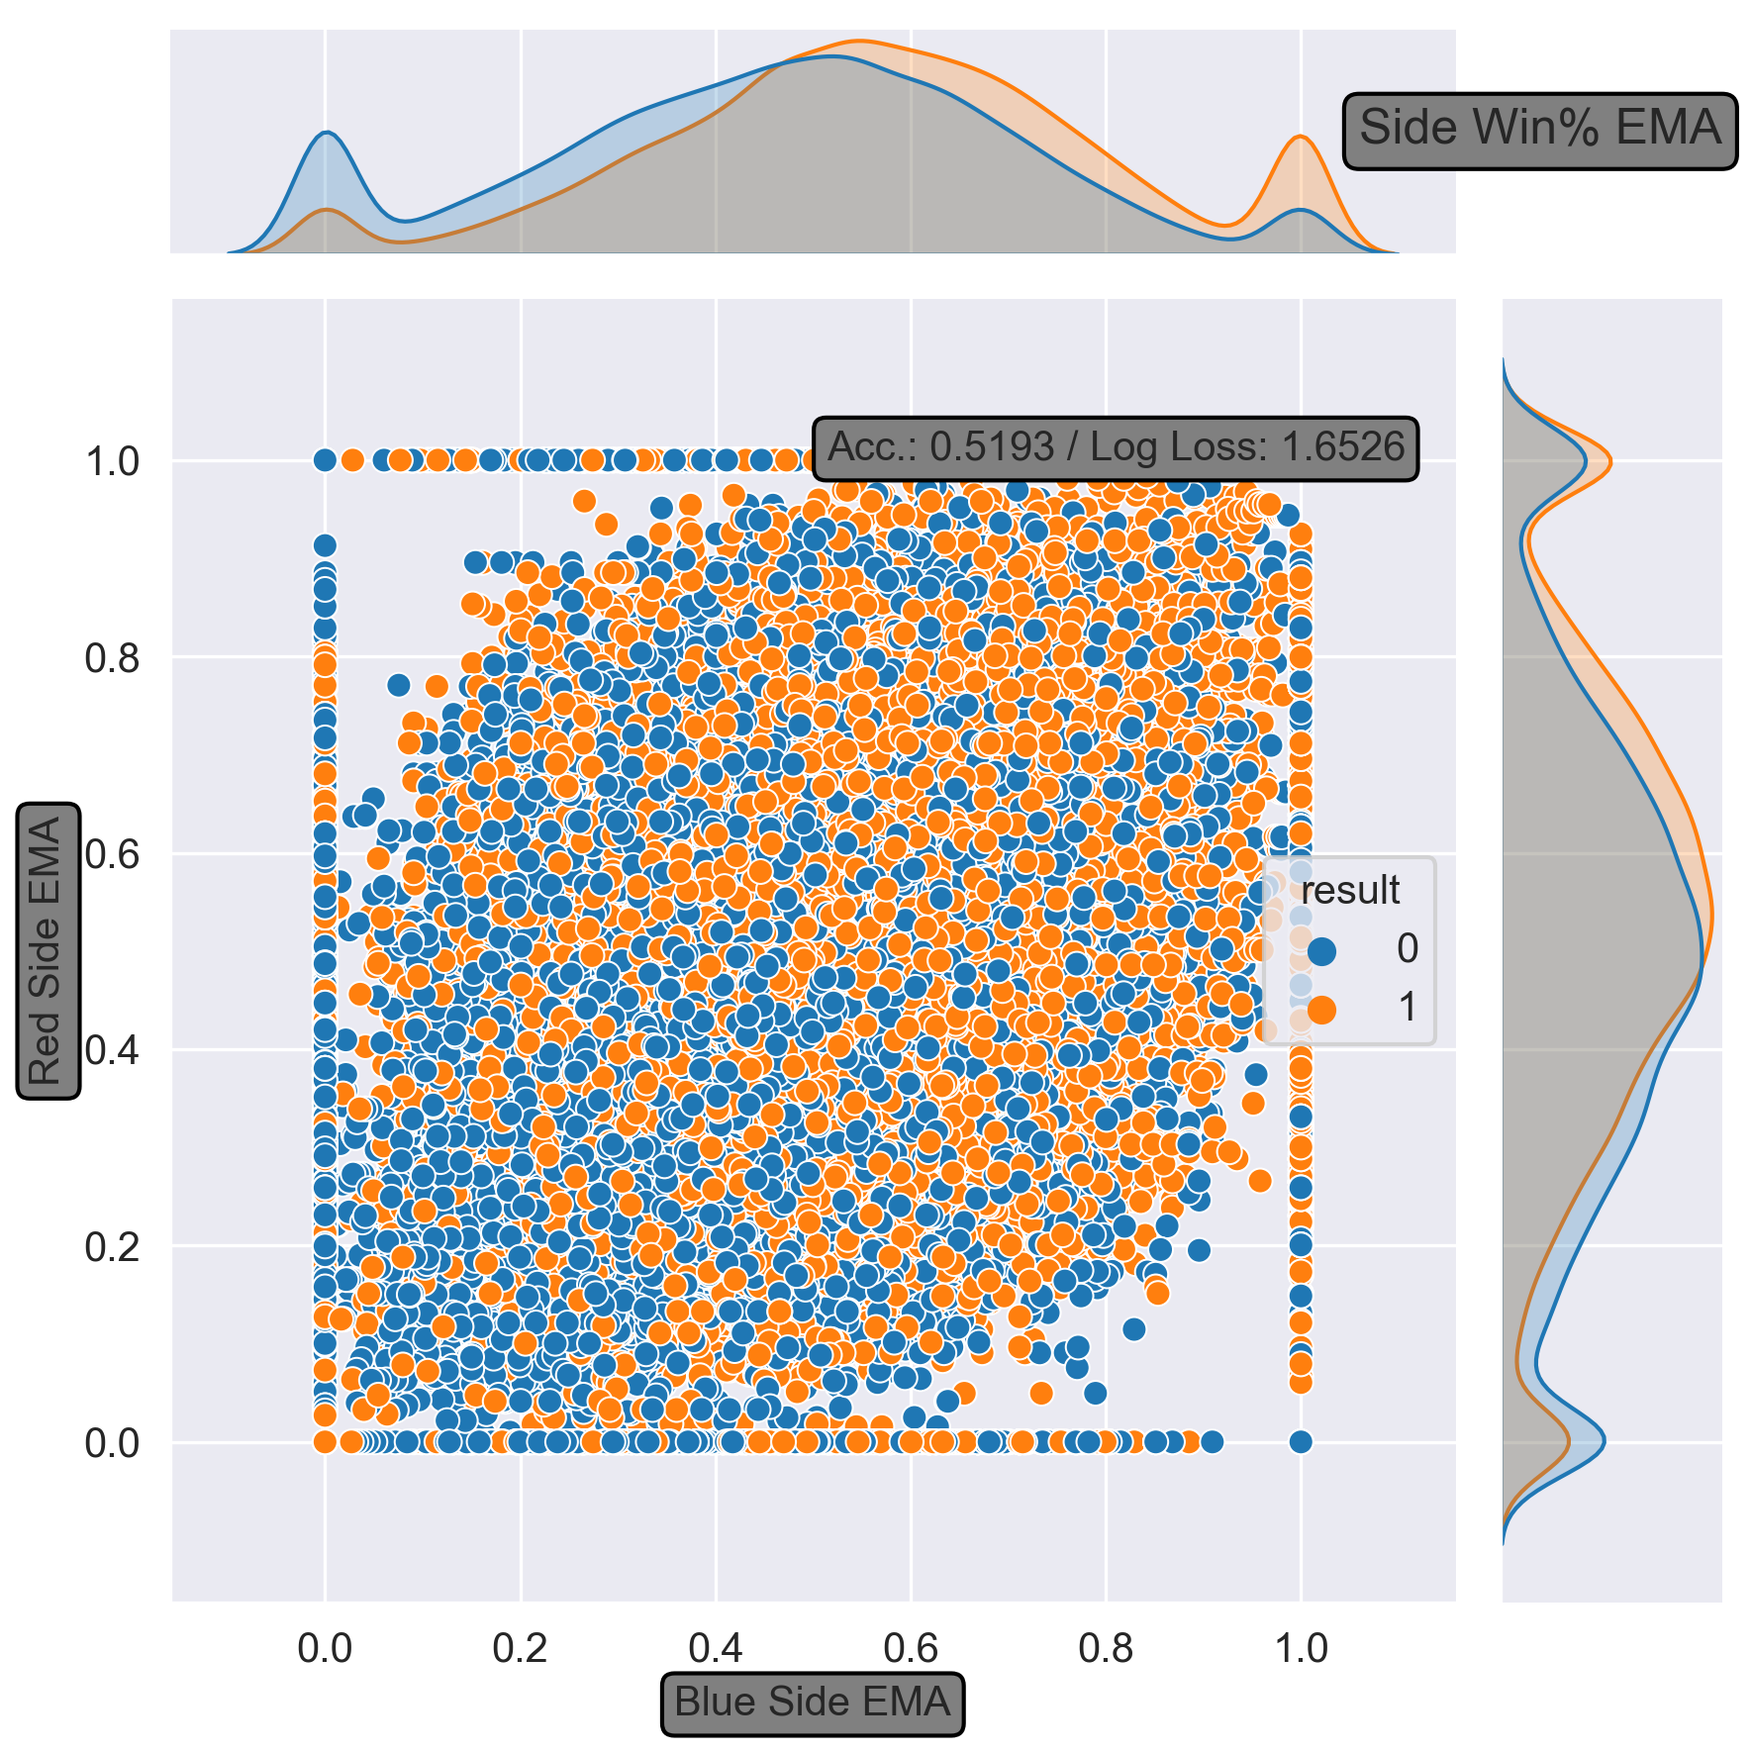
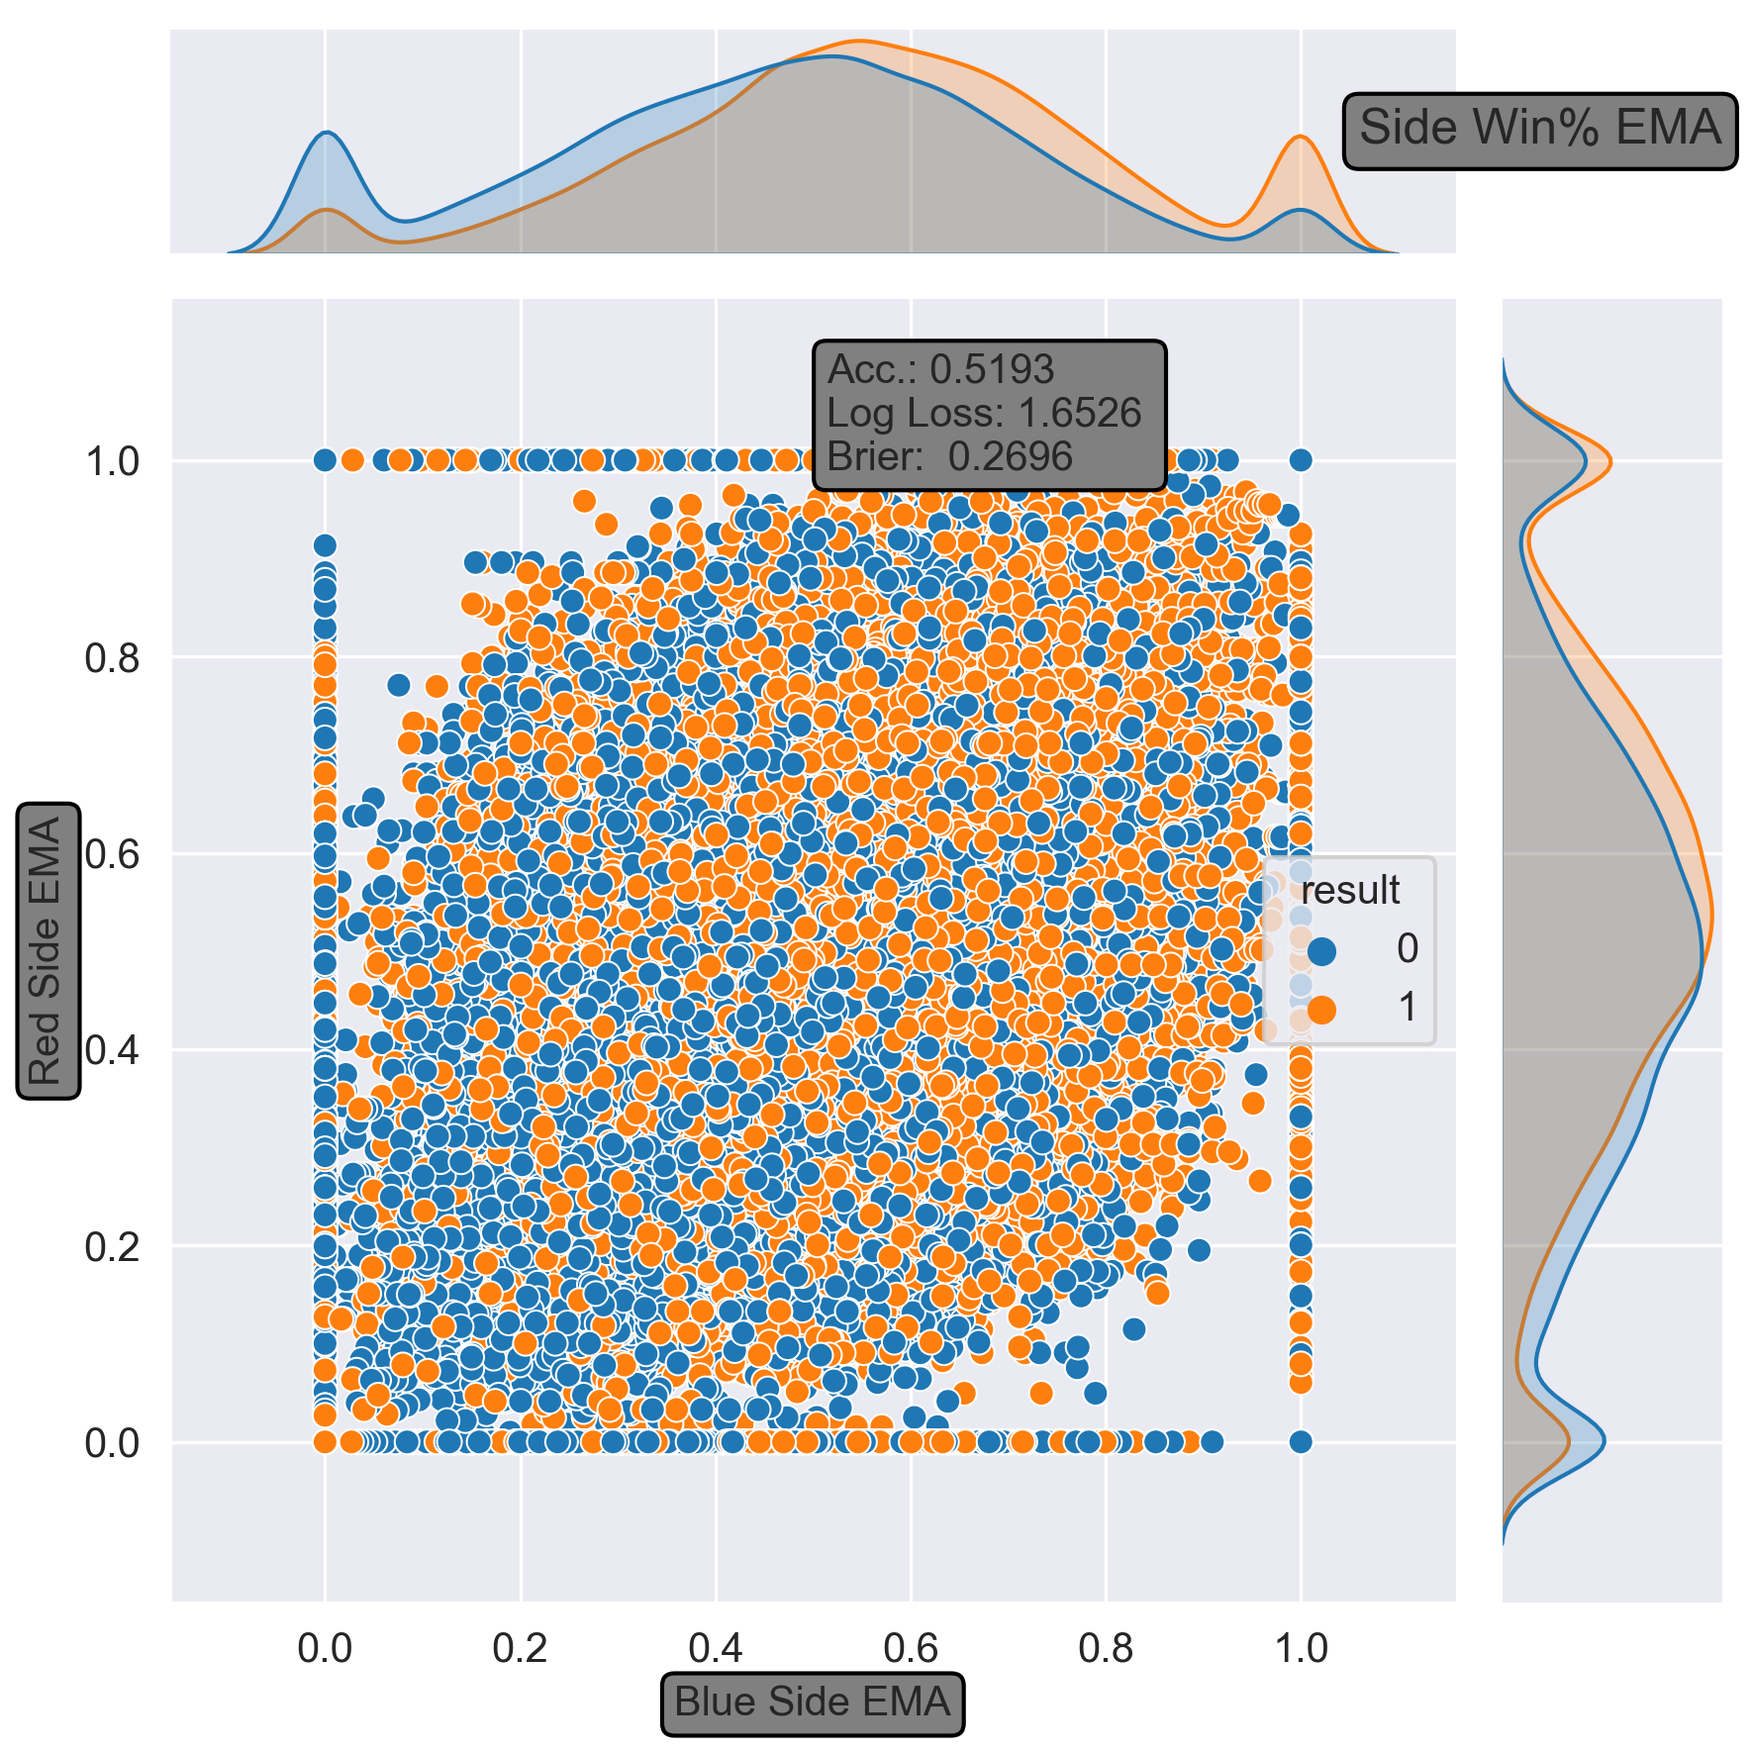
Implementing Brier Scores in Validation
Adding Brier Score into Validation Metrics

Changed region(s): [[0.4664, 0.1863, 0.8084, 0.2795]]

diff --git a/src/model_validator.py b/src/model_validator.py
@@ -4,7 +4,7 @@ import numpy as np
 import pandas as pd
 from pathlib import Path
 import seaborn as sns
-from sklearn.metrics import log_loss
+from sklearn.metrics import log_loss, brier_score_loss
 
 sns.set_style("darkgrid")
 
@@ -48,6 +48,8 @@ def validate_team_elo(teams: pd.DataFrame, directory: Path, graph: bool):
         Variable describing the number of predictions that this model had correct.
     logloss: float
         Variable describing the log loss, as defined by sklearn.metrics, of the model.
+    brier: float
+        Variable describing the Brier loss score, as defined by sklearn.metrics, of the model.
     """
     # Data Preparation
     teams['opp_team_elo'] = teams['team_elo_before'] - teams['team_elo_diff']
@@ -60,6 +62,7 @@ def validate_team_elo(teams: pd.DataFrame, directory: Path, graph: bool):
     # Label Accuracy and Log Loss
     correct = len(teams[teams['team_elo_expected_result'] == teams['result']]) / len(teams)
     logloss = log_loss(teams['result'], teams['team_elo_win_perc'], labels=[0, 1])
+    brier = brier_score_loss(teams['result'], teams['team_elo_win_perc'])
 
     # Generate Graph
     if graph:
@@ -69,8 +72,8 @@ def validate_team_elo(teams: pd.DataFrame, directory: Path, graph: bool):
                             hue='result')
 
         grf.ax_joint.text(teams['team_elo_before'].mean(),
-                          teams['opp_team_elo'].max(),
-                          f'Acc.: {correct:.4f} / Log Loss: {logloss:.4f}',
+                          (teams['opp_team_elo'].max() - (teams['opp_team_elo'].max() * 0.02)),
+                          f'Acc.: {correct:.4f} \nLog Loss: {logloss:.4f} \nBrier: {brier: .4f}',
                           bbox=dict(facecolor='grey', edgecolor='black', boxstyle='round'))
 
         # Format and Export
@@ -83,7 +86,7 @@ def validate_team_elo(teams: pd.DataFrame, directory: Path, graph: bool):
         plt.show()
         plt.clf()
 
-    return correct, logloss
+    return correct, logloss, brier
 
 
 def validate_player_elo(teams: pd.DataFrame, directory: Path, graph: bool):
@@ -107,6 +110,8 @@ def validate_player_elo(teams: pd.DataFrame, directory: Path, graph: bool):
         Variable describing the number of predictions that this model had correct.
     logloss: float
         Variable describing the log loss, as defined by sklearn.metrics, of the model.
+    brier: float
+        Variable describing the Brier loss score, as defined by sklearn.metrics, of the model.
     """
     # Data Preparation
     teams['opp_player_elo'] = teams['player_elo_before'] - teams['player_elo_diff']
@@ -119,6 +124,7 @@ def validate_player_elo(teams: pd.DataFrame, directory: Path, graph: bool):
     # Label Accuracy and Log Loss
     correct = len(teams[teams['player_elo_expected_result'] == teams['result']]) / len(teams)
     logloss = log_loss(teams['result'], teams['player_elo_win_perc'], labels=[0, 1])
+    brier = brier_score_loss(teams['result'], teams['player_elo_win_perc'])
 
     # Generate Graph
     if graph:
@@ -128,8 +134,8 @@ def validate_player_elo(teams: pd.DataFrame, directory: Path, graph: bool):
                             hue='result')
 
         grf.ax_joint.text(teams['player_elo_before'].mean(),
-                          teams['opp_player_elo'].max(),
-                          f'Acc.: {correct:.4f} / Log Loss: {logloss:.4f}',
+                          (teams['opp_player_elo'].max() - (teams['opp_player_elo'].max() * 0.02)),
+                          f'Acc.: {correct:.4f} \nLog Loss: {logloss:.4f} \nBrier: {brier: .4f}',
                           bbox=dict(facecolor='grey', edgecolor='black', boxstyle='round'))
 
         # Format and Export
@@ -142,7 +148,7 @@ def validate_player_elo(teams: pd.DataFrame, directory: Path, graph: bool):
         plt.show()
         plt.clf()
 
-    return correct, logloss
+    return correct, logloss, brier
 
 
 def validate_trueskill(teams: pd.DataFrame, directory: Path, graph: bool):
@@ -166,6 +172,8 @@ def validate_trueskill(teams: pd.DataFrame, directory: Path, graph: bool):
         Variable describing the number of predictions that this model had correct.
     logloss: float
         Variable describing the log loss, as defined by sklearn.metrics, of the model.
+    brier: float
+        Variable describing the Brier loss score, as defined by sklearn.metrics, of the model.
     """
     # Data Preparation
     teams['trueskill_expected_result'] = np.where(teams['trueskill_win_perc'] >= 0.5, 1, 0)
@@ -177,6 +185,7 @@ def validate_trueskill(teams: pd.DataFrame, directory: Path, graph: bool):
     # Label Accuracy and Log Loss
     correct = len(teams[teams['trueskill_expected_result'] == teams['result']]) / len(teams)
     logloss = log_loss(teams['result'], teams['trueskill_win_perc'], labels=[0, 1])
+    brier = brier_score_loss(teams['result'], teams['trueskill_win_perc'])
 
     # Generate Graph
     if graph:
@@ -187,8 +196,8 @@ def validate_trueskill(teams: pd.DataFrame, directory: Path, graph: bool):
 
         grf.ax_joint.text((teams['trueskill_sum_mu'].mean() -
                           (teams['trueskill_sum_mu'].mean() * 0.125)),
-                          teams['opponent_sum_mu'].max(),
-                          f'Acc.: {correct:.4f} / Log Loss: {logloss:.4f}',
+                          (teams['opponent_sum_mu'].max() - (teams['opponent_sum_mu'].max() * 0.01)),
+                          f'Acc.: {correct:.4f} \nLog Loss: {logloss:.4f} \nBrier: {brier: .4f}',
                           bbox=dict(facecolor='grey', edgecolor='black', boxstyle='round'))
 
         # Format and Export
@@ -201,7 +210,7 @@ def validate_trueskill(teams: pd.DataFrame, directory: Path, graph: bool):
         plt.show()
         plt.clf()
 
-    return correct, logloss
+    return correct, logloss, brier
 
 
 def validate_egpm_dominance(teams: pd.DataFrame, directory: Path, graph: bool):
@@ -225,6 +234,8 @@ def validate_egpm_dominance(teams: pd.DataFrame, directory: Path, graph: bool):
         Variable describing the number of predictions that this model had correct.
     logloss: float
         Variable describing the log loss, as defined by sklearn.metrics, of the model.
+    brier: float
+        Variable describing the Brier loss score, as defined by sklearn.metrics, of the model.
     """
     # Data Preparation
     teams['egpm_dominance_expected_result'] = np.where(teams['egpm_dominance_win_perc'] >= 0.5, 1, 0)
@@ -236,6 +247,7 @@ def validate_egpm_dominance(teams: pd.DataFrame, directory: Path, graph: bool):
     # Label Accuracy and Log Loss
     correct = len(teams[teams['egpm_dominance_expected_result'] == teams['result']]) / len(teams)
     logloss = log_loss(teams['result'], teams['egpm_dominance_win_perc'], labels=[0, 1])
+    brier = brier_score_loss(teams['result'], teams['egpm_dominance_win_perc'])
 
     # Generate Graph
     if graph:
@@ -246,8 +258,9 @@ def validate_egpm_dominance(teams: pd.DataFrame, directory: Path, graph: bool):
 
         grf.ax_joint.text((teams['egpm_dominance_ema_before'].min() +
                            (teams['egpm_dominance_ema_before'].mean() * 0.25)),
-                          teams['opp_egpm_dominance_ema_before'].max(),
-                          f'Acc.: {correct:.4f} / Log Loss: {logloss:.4f}',
+                          (teams['opp_egpm_dominance_ema_before'].max() -
+                           (teams['opp_egpm_dominance_ema_before'].max() * 0.04)),
+                          f'Acc.: {correct:.4f} \nLog Loss: {logloss:.4f} \nBrier: {brier: .4f}',
                           bbox=dict(facecolor='grey', edgecolor='black', boxstyle='round'))
 
         # Format and Export
@@ -260,7 +273,7 @@ def validate_egpm_dominance(teams: pd.DataFrame, directory: Path, graph: bool):
         plt.show()
         plt.clf()
 
-    return correct, logloss
+    return correct, logloss, brier
 
 
 def validate_side_ema(teams: pd.DataFrame, directory: Path, graph: bool):
@@ -284,6 +297,8 @@ def validate_side_ema(teams: pd.DataFrame, directory: Path, graph: bool):
         Variable describing the number of predictions that this model had correct.
     logloss: float
         Variable describing the log loss, as defined by sklearn.metrics, of the model.
+    brier: float
+        Variable describing the Brier loss score, as defined by sklearn.metrics, of the model.
     """
     # Data Preparation
     teams['side_ema_expected_result'] = np.where(teams['side_ema_win_perc'] >= 0.5, 1, 0)
@@ -295,6 +310,7 @@ def validate_side_ema(teams: pd.DataFrame, directory: Path, graph: bool):
     # Label Accuracy and Log Loss
     correct = len(teams[teams['side_ema_expected_result'] == teams['result']]) / len(teams)
     logloss = log_loss(teams['result'], teams['side_ema_win_perc'], labels=[0, 1])
+    brier = brier_score_loss(teams['result'], teams['side_ema_win_perc'])
 
     # Generate Graph
     if graph:
@@ -304,8 +320,8 @@ def validate_side_ema(teams: pd.DataFrame, directory: Path, graph: bool):
                             hue='result')
 
         grf.ax_joint.text(teams['side_ema_before'].mean(),
-                          teams['opp_side_ema_before'].max(),
-                          f'Acc.: {correct:.4f} / Log Loss: {logloss:.4f}',
+                          (teams['opp_side_ema_before'].max() - (teams['opp_side_ema_before'].max() * 0.01)),
+                          f'Acc.: {correct:.4f} \nLog Loss: {logloss:.4f} \nBrier: {brier: .4f}',
                           bbox=dict(facecolor='grey', edgecolor='black', boxstyle='round'))
 
         # Format and Export
@@ -318,7 +334,7 @@ def validate_side_ema(teams: pd.DataFrame, directory: Path, graph: bool):
         plt.show()
         plt.clf()
 
-    return correct, logloss
+    return correct, logloss, brier
 
 
 def validate_ensemble_accuracy(teams: pd.DataFrame,
@@ -361,10 +377,13 @@ def validate_ensemble_accuracy(teams: pd.DataFrame,
         Variable describing the number of predictions that this model had correct.
     logloss: float
         Variable describing the log loss, as defined by sklearn.metrics, of the model.
+    brier: float
+        Variable describing the Brier loss score, as defined by sklearn.metrics, of the model.
     """
     # Data Preparation
     teams['result'] = teams.result.astype('int32')
-    sum_accuracy = team_accuracy + player_accuracy + egpm_dom_accuracy + side_ema_accuracy + trueskill_accuracy
+    sum_accuracy = (team_accuracy + player_accuracy + egpm_dom_accuracy +
+                    side_ema_accuracy + trueskill_accuracy)
     teams['ensemble_win_perc'] = ((teams['team_elo_win_perc'] * (team_accuracy / sum_accuracy)) +
                                   (teams['player_elo_win_perc'] * (player_accuracy / sum_accuracy)) +
                                   (teams['trueskill_win_perc'] * (trueskill_accuracy / sum_accuracy)) +
@@ -379,6 +398,7 @@ def validate_ensemble_accuracy(teams: pd.DataFrame,
     # Label Accuracy and Log Loss
     correct = len(teams[teams['ensemble_expected_result'] == teams['result']]) / len(teams)
     logloss = log_loss(teams['result'], teams['ensemble_win_perc'], labels=[0, 1])
+    brier = brier_score_loss(teams['result'], teams['ensemble_win_perc'])
 
     # Generate Graph
     if graph:
@@ -389,9 +409,9 @@ def validate_ensemble_accuracy(teams: pd.DataFrame,
                             ylim=(0, 1),
                             hue='result')
 
-        grf.ax_joint.text(0.15,
-                          0.95,
-                          f'Acc.: {correct:.4f} / Log Loss: {logloss:.4f}',
+        grf.ax_joint.text(0.4,
+                          0.85,
+                          f'Acc.: {correct:.4f} \nLog Loss: {logloss:.4f} \nBrier: {brier: .4f}',
                           bbox=dict(facecolor='grey', edgecolor='black', boxstyle='round'))
 
         # Format and Export
@@ -404,7 +424,7 @@ def validate_ensemble_accuracy(teams: pd.DataFrame,
         plt.show()
         plt.clf()
 
-    return correct, logloss
+    return correct, logloss, brier
 
 
 def generate_validation_metrics(graph: bool):
@@ -426,22 +446,23 @@ def generate_validation_metrics(graph: bool):
     directory = Path.cwd().parent.joinpath('reports', 'figures')
 
     # Validation Individual Core Models
-    te_acc, te_lls = validate_team_elo(team_data, directory, graph)
-    pe_acc, pe_lls = validate_player_elo(team_data, directory, graph)
-    ts_acc, ts_lls = validate_trueskill(team_data, directory, graph)
-    ed_acc, ed_lls = validate_egpm_dominance(team_data, directory, graph)
-    se_acc, se_lls = validate_side_ema(team_data, directory, graph)
+    te_acc, te_lls, te_br = validate_team_elo(team_data, directory, graph)
+    pe_acc, pe_lls, pe_br = validate_player_elo(team_data, directory, graph)
+    ts_acc, ts_lls, ts_br = validate_trueskill(team_data, directory, graph)
+    ed_acc, ed_lls, ed_br = validate_egpm_dominance(team_data, directory, graph)
+    se_acc, se_lls, se_br = validate_side_ema(team_data, directory, graph)
 
     # Validate Ensemble Prediction
-    es_acc, es_lls = validate_ensemble_accuracy(team_data, te_acc, pe_acc, ts_acc, ed_acc, se_acc, directory, graph)
+    es_acc, es_lls, es_br = validate_ensemble_accuracy(team_data, te_acc, pe_acc, ts_acc, ed_acc, se_acc,
+                                                       directory, graph)
 
     # Generate Validation Variable
-    validation = {"team_accuracy": te_acc, "team_logloss": te_lls,
-                  "player_accuracy": pe_acc, "player_logloss": pe_lls,
-                  "trueskill_accuracy": ts_acc, "trueskill_logloss": ts_lls,
-                  "egpm_dom_accuracy": ed_acc, "egpm_dom_logloss": ed_lls,
-                  "side_ema_accuracy": se_acc, "side_ema_logloss": se_lls,
-                  "ensemble_accuracy": es_acc, "ensemble_logloss": es_lls}
+    validation = {"team_accuracy": te_acc, "team_logloss": te_lls, "team_brier": te_br,
+                  "player_accuracy": pe_acc, "player_logloss": pe_lls, "player_brier": pe_br,
+                  "trueskill_accuracy": ts_acc, "trueskill_logloss": ts_lls, "trueskill_brier": ts_br,
+                  "egpm_dom_accuracy": ed_acc, "egpm_dom_logloss": ed_lls, "egpm_dom_brier": ed_br,
+                  "side_ema_accuracy": se_acc, "side_ema_logloss": se_lls, "side_ema_brier": se_br,
+                  "ensemble_accuracy": es_acc, "ensemble_logloss": es_lls, "ensemble_brier": es_br}
 
     return validation
 
@@ -453,14 +474,15 @@ def main():
     directory = Path.cwd().parent.joinpath('reports', 'figures')
 
     # Validation Individual Core Models
-    te_acc, te_lls = validate_team_elo(team_data, directory, True)
-    pe_acc, pe_lls = validate_player_elo(team_data, directory, True)
-    ts_acc, ts_lls = validate_trueskill(team_data, directory, True)
-    ed_acc, ed_lls = validate_egpm_dominance(team_data, directory, True)
-    se_acc, se_lls = validate_side_ema(team_data, directory, True)
+    te_acc, te_lls, te_br = validate_team_elo(team_data, directory, True)
+    pe_acc, pe_lls, pe_br = validate_player_elo(team_data, directory, True)
+    ts_acc, ts_lls, ts_br = validate_trueskill(team_data, directory, True)
+    ed_acc, ed_lls, ed_br = validate_egpm_dominance(team_data, directory, True)
+    se_acc, se_lls, se_br = validate_side_ema(team_data, directory, True)
 
     # Validate Ensemble Prediction
-    validate_ensemble_accuracy(team_data, te_acc, pe_acc, ts_acc, ed_acc, se_acc, directory, True)
+    validate_ensemble_accuracy(team_data, te_acc, pe_acc, ts_acc, ed_acc, se_acc,
+                               directory, True)
 
 
 if __name__ in ('__main__', '__builtin__', 'builtins'):
